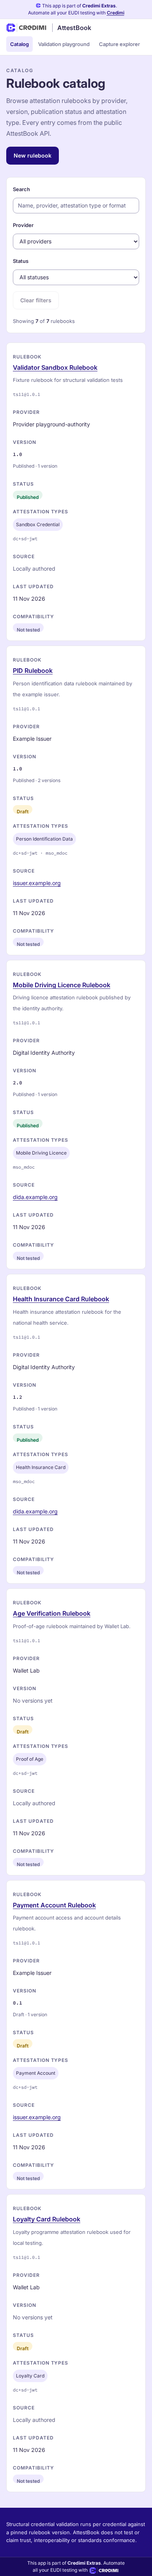
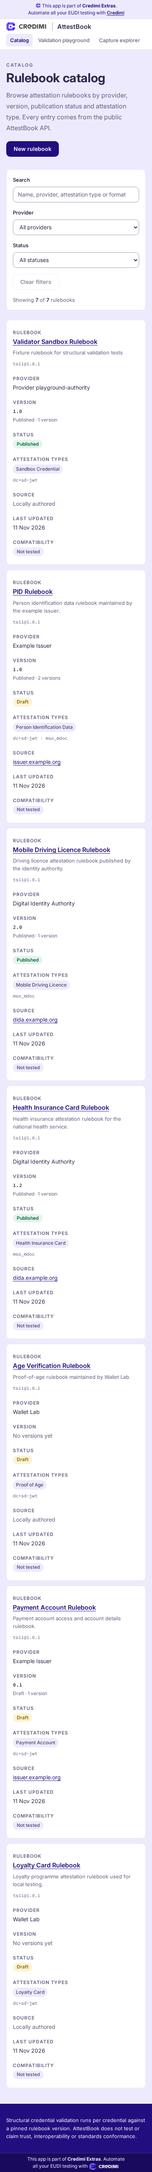
fix(ui): contain badge labels and cover the brand chrome
Reset the brand badge height and line-height so every status chip keeps its label inside the pill, tighten the base line-height, add badge-overflow browser regressions, and test the Credimi Extras banners, logo lockup and link rules. Serve the favicon directly from the brand logo and record the upstream template references and Impeccable version.

diff --git a/ui/src/components/Layout.test.tsx b/ui/src/components/Layout.test.tsx
@@ -1,0 +1,68 @@
+import { render, screen, within } from '@testing-library/react'
+import { describe, expect, test } from 'vitest'
+
+import { expectNoA11yViolations } from '../test/a11y'
+import { SiteFooter, SiteHeader } from './Layout'
+
+const noop = () => {}
+
+describe('Credimi Extras chrome', () => {
+  test('renders the top banner before the header and links only the trailing word', () => {
+    render(<SiteHeader section="Rulebook catalog" onNavigate={noop} />)
+
+    const strip = screen.getByRole('complementary', { name: 'Credimi Extras' })
+    expect(strip.textContent?.replace(/\s+/g, ' ').trim()).toBe(
+      'This app is part of Credimi Extras. Automate all your EUDI testing with Credimi',
+    )
+
+    const links = within(strip).getAllByRole('link')
+    expect(links).toHaveLength(1)
+    const link = links[0]!
+    expect(link).toHaveTextContent('Credimi')
+    expect(link).toHaveAttribute('href', 'https://credimi.io')
+    expect(link).toHaveAttribute('target', '_blank')
+    expect(link.getAttribute('rel')).toContain('noopener')
+
+    const header = screen.getByRole('banner')
+    expect(strip.compareDocumentPosition(header) & Node.DOCUMENT_POSITION_FOLLOWING).toBeTruthy()
+    expect(within(header).getByRole('img', { name: 'Credimi' })).toHaveAttribute(
+      'src',
+      '/brand/logos/credimi_logo-transp.svg',
+    )
+    expect(within(header).getByRole('link', { name: 'Catalog' })).toHaveAttribute(
+      'aria-current',
+      'page',
+    )
+  })
+
+  test('renders the footer strip with the wordmark as its only link', () => {
+    render(<SiteFooter />)
+
+    const footer = screen.getByRole('contentinfo')
+    expect(footer).toHaveTextContent('AttestBook does not test or claim trust')
+
+    const links = within(footer).getAllByRole('link')
+    expect(links).toHaveLength(1)
+    const link = links[0]!
+    expect(link).toHaveAccessibleName('Credimi')
+    expect(link).toHaveAttribute('href', 'https://credimi.io')
+    expect(link).toHaveAttribute('target', '_blank')
+    expect(link.getAttribute('rel')).toContain('noopener')
+    expect(within(link).getByRole('img')).toHaveAttribute(
+      'src',
+      '/brand/logos/credimi_logo-transp_white.svg',
+    )
+  })
+
+  test('has no detectable accessibility violations', async () => {
+    render(
+      <>
+        <SiteHeader section="Capture explorer" onNavigate={noop} />
+        <main />
+        <SiteFooter />
+      </>,
+    )
+
+    await expectNoA11yViolations(document.body)
+  })
+})

diff --git a/src/app.test.ts b/src/app.test.ts
@@ -88,13 +88,7 @@ describe('built web UI', () => {
     expect(await response.text()).toContain('<title>AttestBook</title>')
   })
 
-  test('serves the icon, the Credimi brand assets and content-addressed assets with a nosniff header', async () => {
-    const icon = await uiApp.request('/favicon.svg')
-    expect(icon.status).toBe(200)
-    expect(icon.headers.get('content-type')).toContain('image/svg+xml')
-    expect(icon.headers.get('x-content-type-options')).toBe('nosniff')
-    expect(await icon.text()).toContain('<svg')
-
+  test('serves the Credimi brand assets and content-addressed assets with a nosniff header', async () => {
     const brandStylesheet = await uiApp.request('/brand/style.css')
     expect(brandStylesheet.status).toBe(200)
     expect(brandStylesheet.headers.get('content-type')).toContain('text/css')

diff --git a/ui/src/styles.css b/ui/src/styles.css
@@ -31,8 +31,8 @@ body {
   background: var(--brand-secondary);
   color: var(--fg);
   font-family: var(--font-sans);
-  font-size: var(--fs-md);
-  line-height: var(--lh-md);
+  font-size: var(--fs-base);
+  line-height: var(--lh-base);
   -webkit-font-smoothing: antialiased;
 }
 
@@ -702,11 +702,15 @@ dd {
 /* ---------------------------------------------------------------- badges */
 
 .badge {
-  display: inline-block;
-  padding: 3px 10px;
+  display: inline-flex;
+  height: auto;
+  min-height: 22px;
+  align-items: center;
+  padding: 2px 10px;
   border-radius: var(--radius-pill);
   font-size: var(--fs-xs);
   font-weight: 600;
+  line-height: var(--lh-xs);
   white-space: nowrap;
 }
 

diff --git a/src/app.ts b/src/app.ts
@@ -128,10 +128,6 @@ export function createApp(options: AppOptions = {}): Hono {
     // assets and the installed Credimi brand directory go through directory
     // handlers that refuse to walk outside the build output.
     app.get('/', staticFileHandler(resolve(uiRoot, 'index.html'), 'no-cache'))
-    app.get(
-      '/favicon.svg',
-      staticFileHandler(resolve(uiRoot, 'brand/logos/credimi_logo.svg'), 'public, max-age=3600'),
-    )
     // The client router owns `/rulebooks/<id>` and `/playground`. Serving the
     // entry document for those paths makes a deep link and a browser reload
     // address the same view instead of a JSON 404; the API stays under

diff --git a/ui/e2e/detail.spec.ts b/ui/e2e/detail.spec.ts
@@ -155,6 +155,20 @@ test.describe('rulebook detail against the real API', () => {
   })
 })
 
+test('keeps every badge label inside its pill', async ({ page }) => {
+  await page.goto(await pidDetail(page))
+  await expect(page.locator('.badge').first()).toBeVisible()
+
+  const overflowing = await page
+    .locator('.badge')
+    .evaluateAll((elements) =>
+      elements
+        .filter((element) => element.scrollHeight > element.clientHeight + 1)
+        .map((element) => element.textContent),
+    )
+  expect(overflowing).toEqual([])
+})
+
 test.describe('responsive rulebook detail', () => {
   test.use({ viewport: { width: 390, height: 844 } })
 

diff --git a/ui/e2e/catalog.spec.ts b/ui/e2e/catalog.spec.ts
@@ -119,6 +119,20 @@ test.describe('rulebook catalog against the real API', () => {
   })
 })
 
+test('keeps every badge label inside its pill', async ({ page }) => {
+  await page.goto('/')
+  await expect(page.locator('.badge').first()).toBeVisible()
+
+  const overflowing = await page
+    .locator('.badge')
+    .evaluateAll((elements) =>
+      elements
+        .filter((element) => element.scrollHeight > element.clientHeight + 1)
+        .map((element) => element.textContent),
+    )
+  expect(overflowing).toEqual([])
+})
+
 test.describe('responsive catalog', () => {
   test.use({ viewport: { width: 390, height: 844 } })
 

diff --git a/ui/index.html b/ui/index.html
@@ -9,7 +9,7 @@
       name="description"
       content="Search, validate and author the AttestBook catalog of attestation rulebooks."
     />
-    <link rel="icon" href="/favicon.svg" type="image/svg+xml" />
+    <link rel="icon" href="/brand/logos/credimi_logo.svg" type="image/svg+xml" />
     <!-- Credimi brand stylesheet first; the application stylesheet loads after it. -->
     <link rel="stylesheet" href="/brand/style.css" />
     <title>Rulebook catalog · AttestBook</title>

diff --git a/docs/ui.md b/docs/ui.md
@@ -339,10 +339,9 @@ bun run test:ui      # Vitest component, logic and accessibility tests
 bun run test:e2e     # Playwright against the real API with seeded data
 ```
 
-`src/server.ts` serves `dist/ui/index.html` at `/`, the Credimi mark at
-`/favicon.svg`, Vite's content-addressed files under `/assets/*`, the installed
-Credimi brand directory under `/brand/*`, and the same entry document for
-`/rulebooks/*` deep links. When `dist/ui` is absent (a source checkout without a
+`src/server.ts` serves `dist/ui/index.html` at `/`, Vite's content-addressed
+files under `/assets/*`, the installed Credimi brand directory under `/brand/*`,
+and the same entry document for `/rulebooks/*` deep links. When `dist/ui` is absent (a source checkout without a
 UI build), the UI routes are not registered, so `/` and `/rulebooks/*` keep the
 JSON 404 instead of serving a broken page. The Dockerfile copies the `ui/`
 sources before building, so the container serves the built UI from the same
@@ -360,16 +359,18 @@ installed byte-for-byte under `ui/public/brand/` and served unchanged at
   `/brand/fonts/SourceCodeProVariable.ttf` — the self-hosted families with their
   SIL OFL 1.1 licences;
 - `/brand/logos/*.svg` — the four canonical Credimi logos; the mark is also the
-  favicon at `/favicon.svg`.
+  favicon, linked directly from `/brand/logos/credimi_logo.svg`.
 
 No web asset is loaded from an external CDN, and the two banners mandated by
 `DESIGN.md` §13 are rendered by the shared layout on every route.
 `ui/src/brand.test.ts` pins the canonical logo and font bytes and fails if any
 stylesheet or entry document starts loading an external asset.
 
-Impeccable provides the design vocabulary and the anti-slop detector. It is
-installed for the project under `.dsh/skills/impeccable/` (with `PRODUCT.md`,
-`DESIGN.md` and `.impeccable/config.json` as its project context), and
+Impeccable provides the design vocabulary and the anti-slop detector. Version
+4.8.2 (engine 0.1.21, Apache-2.0, from
+<https://github.com/pbakaus/impeccable>) is installed for the project under
+`.dsh/skills/impeccable/` (with `PRODUCT.md`, `DESIGN.md` and
+`.impeccable/config.json` as its project context), and
 `bun run lint:design` runs the mechanical detector over `ui/src`. CI runs the
 same command in the `quality` job, so a UI change that trips a design
 anti-pattern does not merge. `.impeccable/config.json` records the two
@@ -434,6 +435,10 @@ Component and unit tests (`ui/src/*.test.ts[x]`, Vitest + jsdom):
   token, responsive labels, the shared header navigation and axe-core checks
   (`ui/src/CapturesPage.test.tsx`, `ui/src/CaptureDetailPage.test.tsx`,
   `ui/src/capture.test.ts`);
+- the shared chrome: the Credimi Extras top and footer strips (text, the single
+  `https://credimi.io` link with `target="_blank"` and `rel="noopener"`, wordmark
+  alt text, DOM order), the header logo lockup and axe-core checks
+  (`ui/src/components/Layout.test.tsx`);
 - the router: path parsing (including `/playground`, `/captures`, `/captures/<id>`,
   `/rulebooks/new` and `/rulebooks/<id>/edit`), encoded ids, malformed paths, history
   navigation and modified clicks keeping native anchor behaviour;
@@ -450,6 +455,8 @@ Browser tests (`ui/e2e/catalog.spec.ts`, `ui/e2e/detail.spec.ts`, `ui/e2e/editor
   rulebook used by the playground, with provider, version, status,
   attestation, source and compatibility content;
 - search, provider and status filters, filtered-empty state and reset;
+- every status chip keeps its label inside the pill on the catalog and the
+  detail version history;
 - delayed-API loading state, injected API error and successful retry;
 - catalog → detail navigation, deep-link reload, back-to-catalog, detail metadata,
   attestations, schema references, provenance, compatibility labels, version history and

diff --git a/DESIGN.md b/DESIGN.md
@@ -24,6 +24,10 @@ at `/brand/` (stylesheet `/brand/style.css`, fonts `/brand/fonts/`, logos
 `/brand/logos/`). `ui/index.html` loads `/brand/style.css` first and the
 application's own stylesheet after it.
 
+References in this document to `brand/`, `directives/HITL.md`, `HITL/…` and
+the undefined-custom-property lint are inherited from the upstream Credimi
+Extras template; this repository does not carry those HITL files.
+
 ---
 
 ## Table of contents
